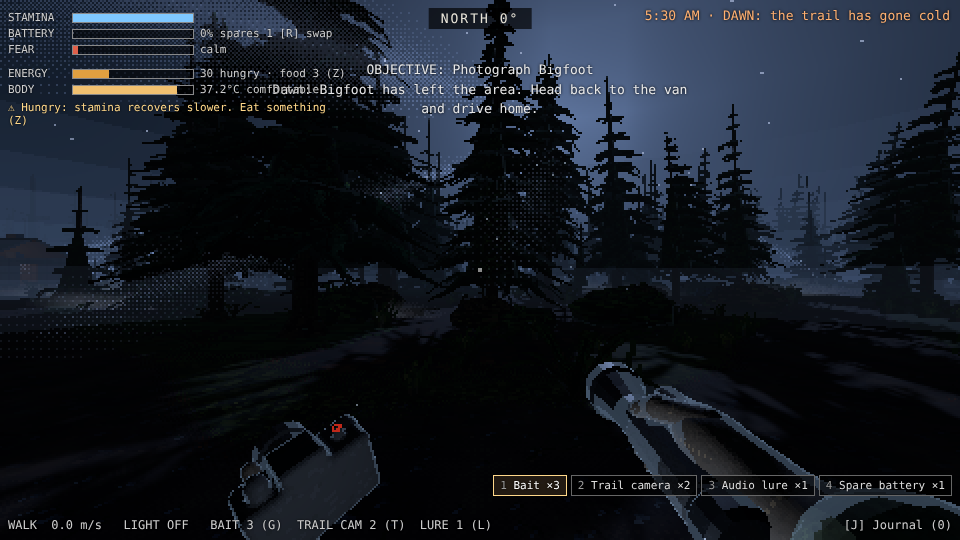
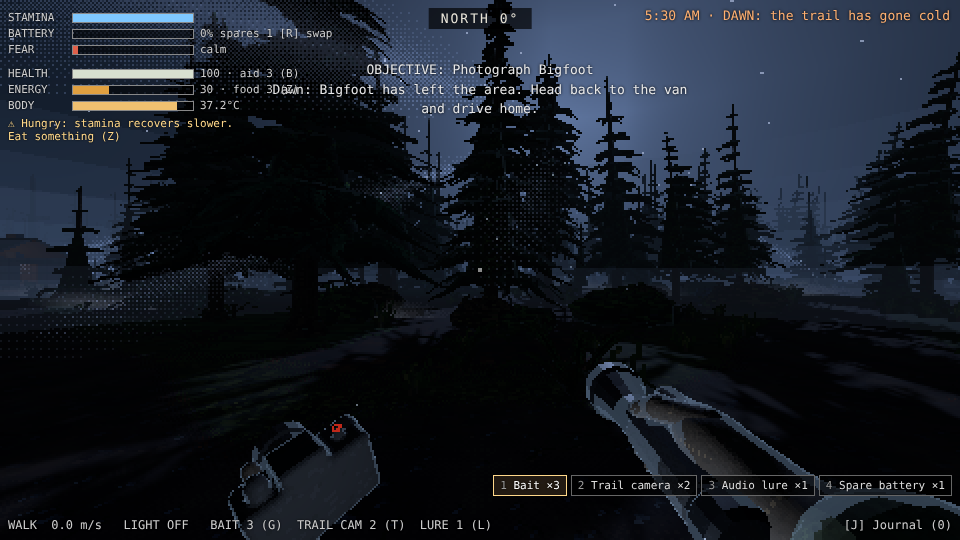
#72 Health, injury and bleeding as the only damage path
Health 0-100 owned by S08 with bruise/bleeding conditions, first-aid kits
(B bandages), damage once per cause within a grace window, warnings with
cause. Cryptid contact is an injury event; the hunt ends only at health 0.
check-t13 updated to the new rules. Adds check:t72.

Claude-Session: https://claude.ai/code/session_0163yRzLCrst6QKZAZ52itsT

diff --git a/.ballast/reports/t72.md b/.ballast/reports/t72.md
@@ -1,0 +1,17 @@
+STATUS: DONE
+- Health is now the only way to get hurt. A HEALTH bar sits above energy (out of 100, with "BLEEDING" and your first-aid kits), and a cryptid's contact is an injury instead of an instant end. Bigfoot or the Mothman leaves you at 40 health with a heavy bleeding wound; the test prowler 40 damage and the Chupacabra 30, each with a lighter wound. A red flash says e.g. "Bigfoot struck you! −60 health / Heavy bleeding: bandage it (B)".
+- Each contact counts once: staying in reach doesn't stack hits for 2 seconds. Bleeding keeps draining health (heavy is about 1.5 a second) until you bandage it. Press B to use one of your three first-aid kits: after a moment the bleeding stops and you get 10 health back. The warning names the cause and the fix: "Heavy bleeding (Bigfoot): losing health. Bandage it (B)".
+- The hunt ends only when health reaches 0, from a second big hit or a wound left to bleed out. Then you see the usual Caught screen, with that night's photos lost and your gear kept.
+- How to see it: `npm run dev`, let Bigfoot reach you, then press B.
+- Verified (`npm run check:t72`): Bigfoot's hit took health 100 → 40 with heavy bleeding and the hunt went on; 1.5 s more in contact added no second hit; bleeding drained it to 31.8; B stopped it (39.5, steady for 10 s, kits 3 → 2); a second hit took it to 0 and ended the hunt; untreated bleeding alone also ended it. I updated the older caught-state check (#13) to the new rules (a Chupacabra wounds then eventually finishes you; one Bigfoot touch no longer ends the hunt). The hunt, base camp, album, survival, fear, determinism and AI checks still pass. Captures in `.ballast/media/t72/`.
+- Assumptions: three first-aid kits per hunt (base camp doesn't stock them yet); no health recovery in the field except dressings; cold and hunger still never damage health in this tutorial map.
+- PR: (link added once opened)
+
+## Questions
+### How hard should Bigfoot hit?
+Context: Bigfoot used to end the hunt the instant it touched you. Now one grab leaves you at 40 health and bleeding heavily: bandage within about 25 seconds or you bleed out, and a second grab finishes you.
+Options: - Two grabs (current: one mistake is survivable if you bandage)
+- One grab still ends the hunt (Bigfoot stays terrifying; health matters only for smaller creatures)
+- Three grabs (more forgiving first map)
+Going with: two grabs, so being caught becomes a tense recovery moment rather than an instant end.
+Capture: 01-struck-bleeding.png
